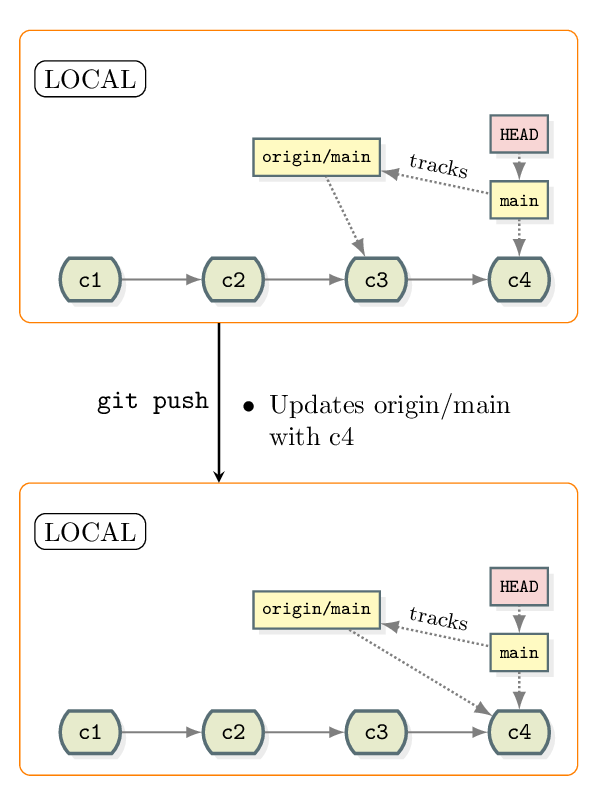
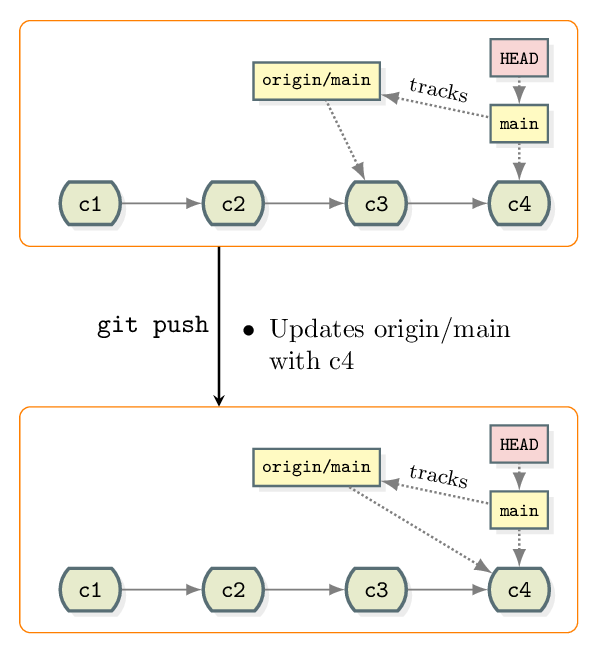
Removed 'local' repository label

Changed region(s): [[0.0303, 0.0306, 0.9983, 0.9801]]

diff --git a/episodes/fig/build/push_u.tex b/episodes/fig/build/push_u.tex
@@ -2,7 +2,7 @@
 
 \usepackage{subcaption}
 \usepackage{gitdags}
-\usepackage[papersize={4.4in, 6in}, margin={0.1in, 0.1in}]{geometry}
+\usepackage[papersize={4.4in, 5.4in}, margin={0.1in, 0.1in}]{geometry}
 \usetikzlibrary{arrows,positioning}
 \tikzgraphsset{
   nudge/.style={/tikz/shift={#1}},
@@ -20,7 +20,7 @@
     \tikzstyle{arrow}=[->, >=stealth, thick]
     \tikzstyle{smalllabel}=[label, black, font=\footnotesize]
 
-    \node (top_container) [container, minimum width=22.5em, minimum height=17em] {};
+    \node (top_container) [container, minimum width=22.5em, minimum height=14.5em] {};
     \gitDAG[grow right sep = 3em, branch up = 3em] {
       c2 [below left=-11em and -3.5em of top_container]
       -- c3 [below left=-11em and -3.5em of top_container]
@@ -29,14 +29,13 @@
     \gitbranch {main} {above=of c3} {c3}
     \gitbranch {feature1} {below=of f1} {f1}
     \gitHEAD {below=of feature1} {feature1}
-    \node[node, above=4em of c2] {LOCAL};
     \gitbranch {origin/main} {above right=1.4em and 8em of c3} {c3}
     \draw[DAGrefedge] (origin/main)
     -- node[smalllabel, above, sloped, anchor=south] {tracks} (main);
 
 
     \node (bottom_container) [
-      container, minimum width=25.5em, minimum height=17em, below=8em of top_container
+      container, minimum width=25.5em, minimum height=14.5em, below=8em of top_container
     ] {};
     \gitDAG[grow right sep = 3em, branch up = 3em]{
       c2 [below left=-11em and -3.5em of bottom_container]
@@ -52,7 +51,6 @@
 
     \draw[DAGrefedge] (origin/main)
     -- node[smalllabel, above, sloped, anchor=south] {tracks} (main);
-    \node[node, above=4em of c2] {LOCAL};
 
     \draw[DAGrefedge] (origin/feature1)
     -- node[smalllabel, above, sloped, anchor=south] {tracks} (feature1);
@@ -70,6 +68,5 @@
 
   \end{tikzpicture}
 \end{figure}
-
 
 \end{document}

diff --git a/episodes/fig/build/push.tex b/episodes/fig/build/push.tex
@@ -2,7 +2,7 @@
 
 \usepackage{subcaption}
 \usepackage{gitdags}
-\usepackage[papersize={3.2in, 4.2in}, margin={0.1in, 0.1in}]{geometry}
+\usepackage[papersize={3.1in, 3.4in}, margin={0.1in, 0.1in}]{geometry}
 \usetikzlibrary{arrows,positioning}
 
 \begin{document}
@@ -14,7 +14,7 @@
     \tikzstyle{arrow}=[->, >=stealth, thick]
     \tikzstyle{smalllabel}=[label, black, font=\footnotesize]
 
-    \node (top_container) [container, minimum width=21em, minimum height=11em] {};
+    \node (top_container) [container, minimum width=21em, minimum height=8.5em] {};
     \gitDAG[grow right sep = 3em] {
       c1 [below left=-2.5em and -3.5em of top_container]
       -- c2 [below left=-2.5em and -3.5em of top_container]
@@ -23,14 +23,13 @@
     };
     \gitbranch {main} {above=of c4} {c4}
     \gitHEAD {above=of main} {main}
-    \node[node, above=6em of c1] {LOCAL};
     \gitbranch {origin/main} {above left=3em and -1em of c3} {c3}
     \draw[DAGrefedge] (origin/main)
     -- node[smalllabel, above, sloped, anchor=south] {tracks} (main);
 
 
     \node (bottom_container) [
-      container, minimum width=21em, minimum height=11em, below=6em of top_container
+      container, minimum width=21em, minimum height=8.5em, below=6em of top_container
     ] {};
     \gitDAG[grow right sep = 3em]{
       c1 [below left=-2.5em and -3.5em of bottom_container]
@@ -44,7 +43,6 @@
 
     \draw[DAGrefedge] (origin/main)
     -- node[smalllabel, above, sloped, anchor=south] {tracks} (main);
-    \node[node, above=6em of c1] {LOCAL};
 
     \draw[arrow] ([shift={(-3em,0)}]top_container.south)
     -- node[anchor=east] {\texttt{git push}}
@@ -56,6 +54,5 @@
     } ([shift={(-3em,0)}]bottom_container.north);
   \end{tikzpicture}
 \end{figure}
-
 
 \end{document}
